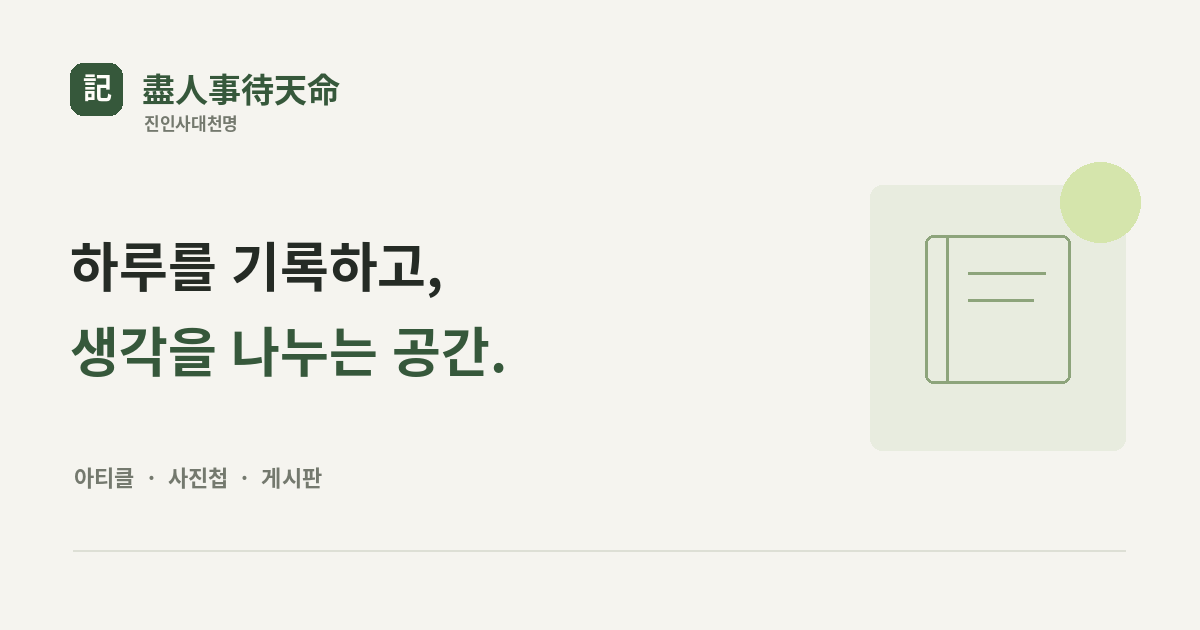
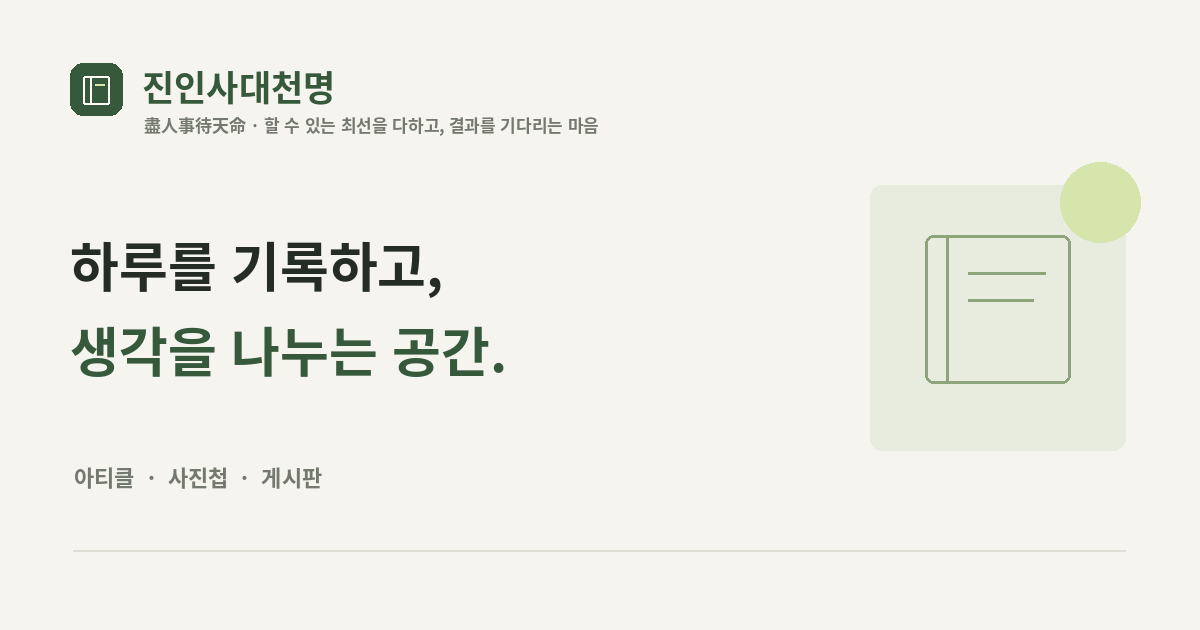
Use Korean site name and reserve Hanja for its meaning

Changed region(s): [[0.1233, 0.0905, 0.4933, 0.2111], [0.0617, 0.1206, 0.0925, 0.181]]

diff --git a/docs/index.html b/docs/index.html
@@ -1,19 +1,19 @@
 <!doctype html>
 <html lang="ko"><head>
 <meta charset="utf-8"><meta name="viewport" content="width=device-width,initial-scale=1">
-<title>盡人事待天命 · 진인사대천명</title>
+<title>진인사대천명</title>
 <meta name="description" content="하루를 기록하고, 생각을 나누는 공간. 개발과 삶을 잇는 아티클, 함께한 순간을 담는 사진첩, 가족의 이야기를 나누는 게시판.">
 <meta name="theme-color" content="#36583b"><meta name="robots" content="index,follow">
 <link rel="canonical" href="https://morning-code-lab.flowystarfish.chatgpt.site/">
-<meta property="og:type" content="website"><meta property="og:locale" content="ko_KR"><meta property="og:site_name" content="盡人事待天命 · 진인사대천명"><meta property="og:title" content="盡人事待天命 · 진인사대천명"><meta property="og:description" content="하루를 기록하고, 생각을 나누는 공간."><meta property="og:url" content="https://morning-code-lab.flowystarfish.chatgpt.site/"><meta property="og:image" content="https://morning-code-lab.flowystarfish.chatgpt.site/assets/og-image.png"><meta property="og:image:width" content="1200"><meta property="og:image:height" content="630">
-<meta name="twitter:card" content="summary_large_image"><meta name="twitter:title" content="盡人事待天命 · 진인사대천명"><meta name="twitter:description" content="하루를 기록하고, 생각을 나누는 공간."><meta name="twitter:image" content="https://morning-code-lab.flowystarfish.chatgpt.site/assets/og-image.png">
+<meta property="og:type" content="website"><meta property="og:locale" content="ko_KR"><meta property="og:site_name" content="진인사대천명"><meta property="og:title" content="진인사대천명"><meta property="og:description" content="하루를 기록하고, 생각을 나누는 공간."><meta property="og:url" content="https://morning-code-lab.flowystarfish.chatgpt.site/"><meta property="og:image" content="https://morning-code-lab.flowystarfish.chatgpt.site/assets/og-image.png"><meta property="og:image:width" content="1200"><meta property="og:image:height" content="630">
+<meta name="twitter:card" content="summary_large_image"><meta name="twitter:title" content="진인사대천명"><meta name="twitter:description" content="하루를 기록하고, 생각을 나누는 공간."><meta name="twitter:image" content="https://morning-code-lab.flowystarfish.chatgpt.site/assets/og-image.png">
 <link rel="icon" href="assets/favicon.svg" type="image/svg+xml"><link rel="preconnect" href="https://fonts.googleapis.com"><link rel="preconnect" href="https://fonts.gstatic.com" crossorigin><link href="https://fonts.googleapis.com/css2?family=Noto+Sans+KR:wght@400;500;600;700;800;900&display=swap" rel="stylesheet"><link rel="stylesheet" href="assets/styles.css">
-<script type="application/ld+json">{"@context":"https://schema.org","@type":"WebSite","name":"盡人事待天命","alternateName":"진인사대천명","url":"https://morning-code-lab.flowystarfish.chatgpt.site/","inLanguage":"ko-KR","description":"하루를 기록하고, 생각을 나누는 공간."}</script>
+<script type="application/ld+json">{"@context":"https://schema.org","@type":"WebSite","name":"진인사대천명","url":"https://morning-code-lab.flowystarfish.chatgpt.site/","inLanguage":"ko-KR","description":"하루를 기록하고, 생각을 나누는 공간."}</script>
 <script type="module" src="app.mjs"></script>
 </head><body>
 <a class="skip-link" href="#main">본문으로 건너뛰기</a>
-<header class="site-header"><div class="header-inner"><a class="brand" href="?view=articles" data-route aria-label="진인사대천명 홈"><img src="assets/favicon.svg" width="42" height="42" alt=""><span><strong>盡人事待天命</strong><small>진인사대천명</small></span></a><nav aria-label="주요 메뉴"><a href="?view=articles" data-route data-nav="articles">아티클</a><a href="?view=albums" data-route data-nav="albums">사진첩</a><a href="?view=board" data-route data-nav="board">게시판</a></nav></div></header>
+<header class="site-header"><div class="header-inner"><a class="brand" href="?view=articles" data-route aria-label="진인사대천명 홈"><img src="assets/favicon.svg" width="42" height="42" alt=""><span><strong>진인사대천명</strong><small>하루와 생각의 기록</small></span></a><nav aria-label="주요 메뉴"><a href="?view=articles" data-route data-nav="articles">아티클</a><a href="?view=albums" data-route data-nav="albums">사진첩</a><a href="?view=board" data-route data-nav="board">게시판</a></nav></div></header>
 <main id="main" tabindex="-1"><div class="initial-loading" role="status">기록을 불러오고 있습니다…</div></main>
 <noscript><div class="notice">아티클 검색과 페이지 이동에는 JavaScript가 필요합니다. <a href="https://github.com/LeeHyungJoo/lab_playground-seed/blob/main/docs/data/posts.json">공개 아티클 데이터 보기</a></div></noscript>
-<footer class="site-footer"><div><strong>盡人事待天命</strong><span>진인사대천명 · 할 수 있는 최선을 다하고, 결과를 기다리는 마음.</span></div><p>함께한 하루와 오래 남을 생각을 기록합니다.</p><div class="footer-bottom"><span>© <span id="year">2026</span> 盡人事待天命</span><a href="https://github.com/LeeHyungJoo/lab_playground-seed" target="_blank" rel="noopener noreferrer">프로젝트 기록 ↗</a></div></footer>
+<footer class="site-footer"><div><strong>진인사대천명</strong><span>盡人事待天命 · 할 수 있는 최선을 다하고, 결과를 기다리는 마음.</span></div><p>함께한 하루와 오래 남을 생각을 기록합니다.</p><div class="footer-bottom"><span>© <span id="year">2026</span> 진인사대천명</span><a href="https://github.com/LeeHyungJoo/lab_playground-seed" target="_blank" rel="noopener noreferrer">프로젝트 기록 ↗</a></div></footer>
 </body></html>

diff --git a/docs/automation/implementation-report.md b/docs/automation/implementation-report.md
@@ -16,7 +16,7 @@ HTML 정적 구조를 유지하며 CSS, 앱 진입, 카테고리·조회·렌더
 
 ## 3. 브랜드와 정보 구조
 
-표시 명칭은 盡人事待天命 / 진인사대천명, 헤드라인은 ‘하루를 기록하고, 생각을 나누는 공간.’입니다. 탭·메타 설명·Open Graph·Twitter Card·푸터·favicon·공유 이미지·구조화 데이터에 반영했습니다. 기존 공개 URL은 유지합니다.
+표시 명칭은 진인사대천명이고 한자는 의미를 설명하는 문구에만 사용합니다. 헤드라인은 ‘하루를 기록하고, 생각을 나누는 공간.’입니다. 탭·메타 설명·Open Graph·Twitter Card·푸터·favicon·공유 이미지·구조화 데이터에 반영했습니다. 기존 공개 URL은 유지합니다.
 
 상위 메뉴는 아티클 / 사진첩 / 게시판 세 개입니다. 아티클은 개발(AI·개발도구), 삶(소식·철학·경제·건강)을 필터로 탐색합니다. 검색·분류·페이지·상세는 쿼리 URL로 표현합니다. 날짜·계산된 읽기 시간·분류 배지·출처를 표시합니다. 사진첩은 4개 샘플 행사와 상세 그리드, 게시판은 지정된 환영 공지의 목록·상세를 제공합니다. 실제 사진·작성 폼·업로드·로그인은 추가하지 않았습니다.
 

diff --git a/docs/automation/editorial-guide.md b/docs/automation/editorial-guide.md
@@ -1,4 +1,4 @@
-# 盡人事待天命 · 하루 세 편 편집·발행 지침
+# 진인사대천명 · 하루 세 편 편집·발행 지침
 
 정책 버전: `2026-11-13.1`. 기계 판독 정책은 `docs/data/editorial-policy.json`.
 

diff --git a/README.md b/README.md
@@ -1,4 +1,4 @@
-# 盡人事待天命 · 진인사대천명
+# 진인사대천명
 
 **하루를 기록하고, 생각을 나누는 공간.**
 
